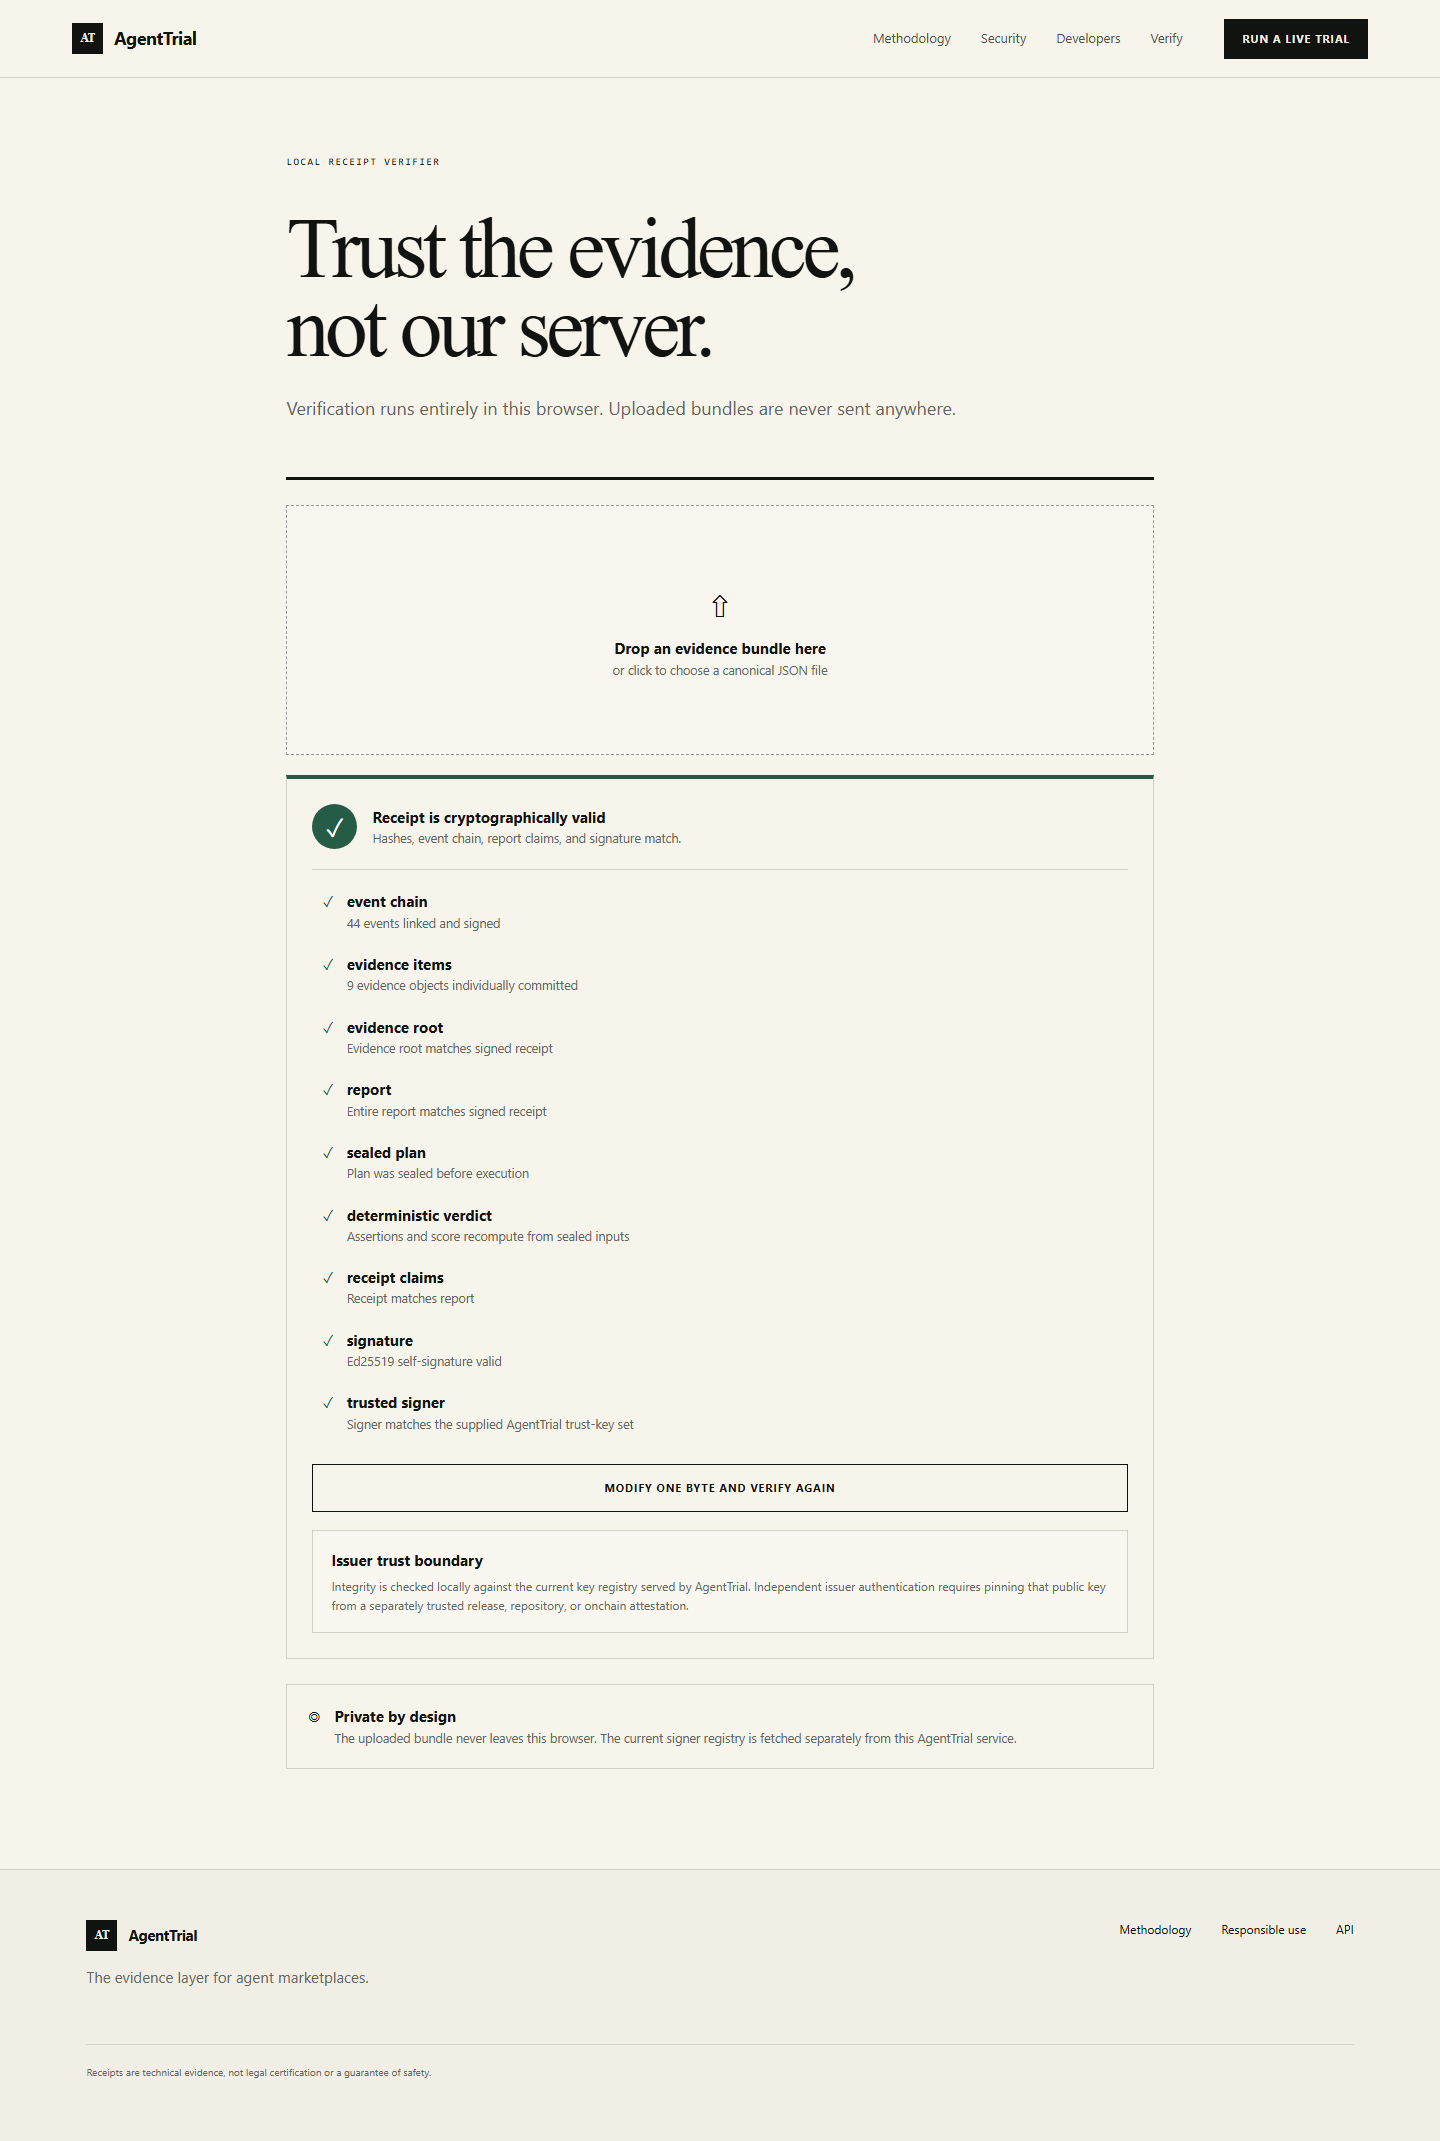
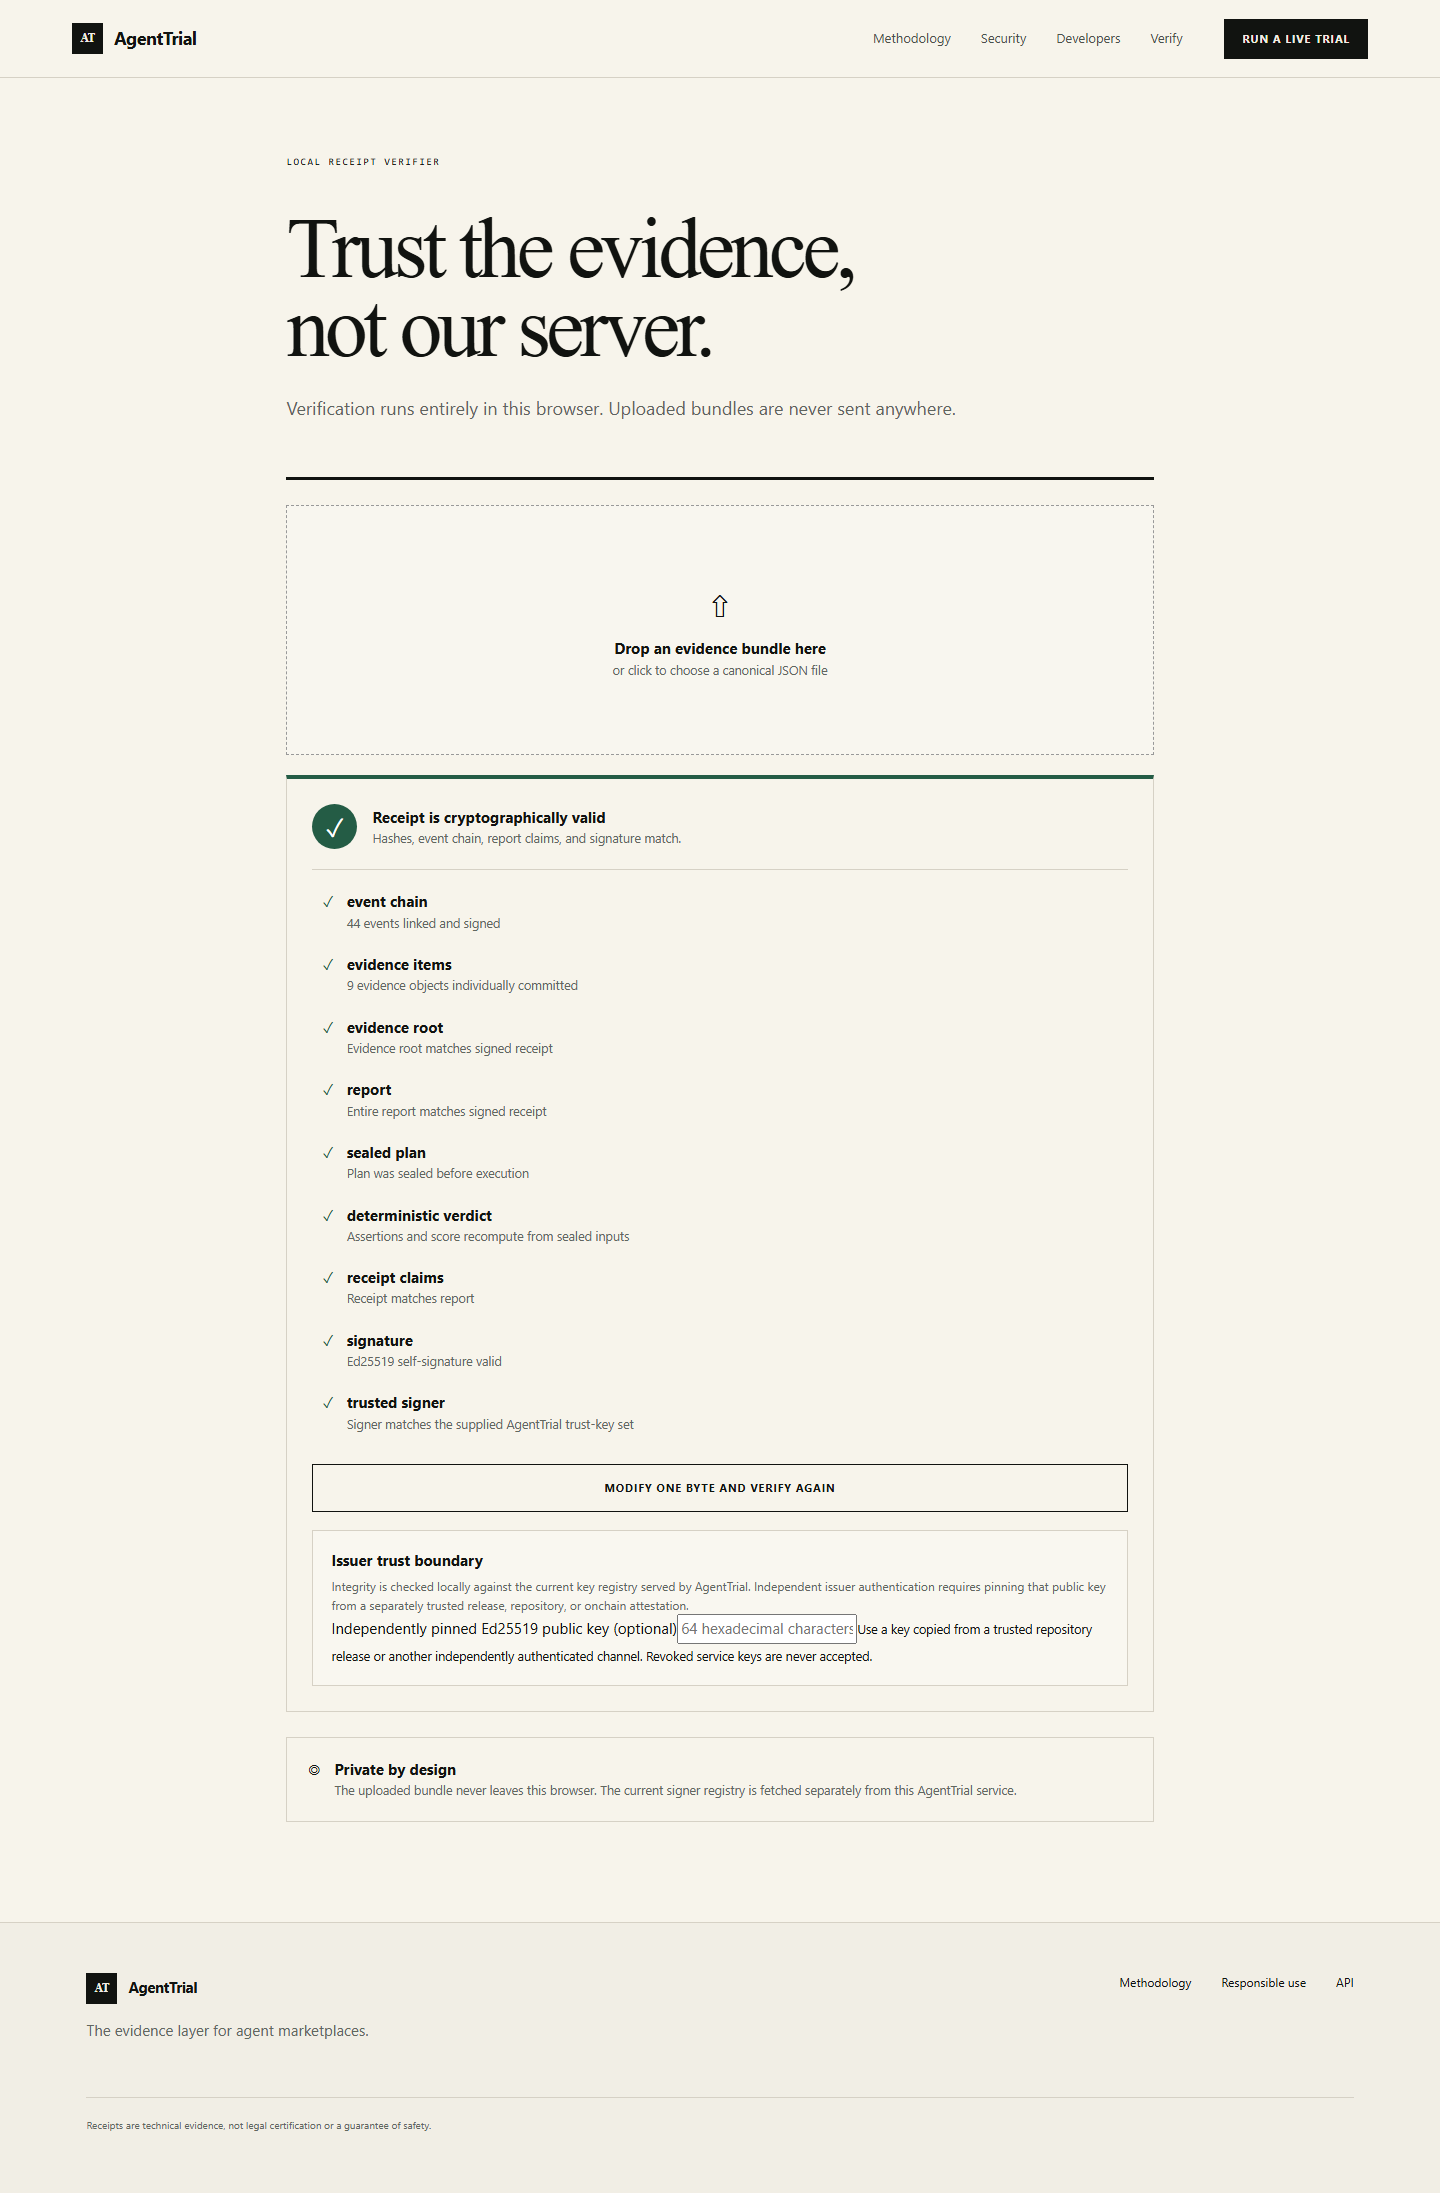
style: polish independent trust controls

diff --git a/apps/web/app/globals.css b/apps/web/app/globals.css
@@ -782,9 +782,31 @@ button {
   background: #ffffff40;
 }
 .trust-boundary p {
-  margin: 5px 0 0;
+  margin: 5px 0 14px;
   color: var(--steel);
   font-size: 12px;
+}
+.trust-boundary label {
+  display: grid;
+  gap: 7px;
+  font-size: 12px;
+  font-weight: 700;
+}
+.trust-boundary input {
+  width: 100%;
+  min-width: 0;
+  padding: 10px 12px;
+  border: 1px solid var(--line-strong);
+  background: var(--ivory);
+  color: var(--ink);
+  font-family: var(--mono);
+  font-size: 12px;
+}
+.trust-boundary > small {
+  display: block;
+  margin-top: 7px;
+  color: var(--steel);
+  line-height: 1.5;
 }
 .score-orbit:before {
   content: "";
